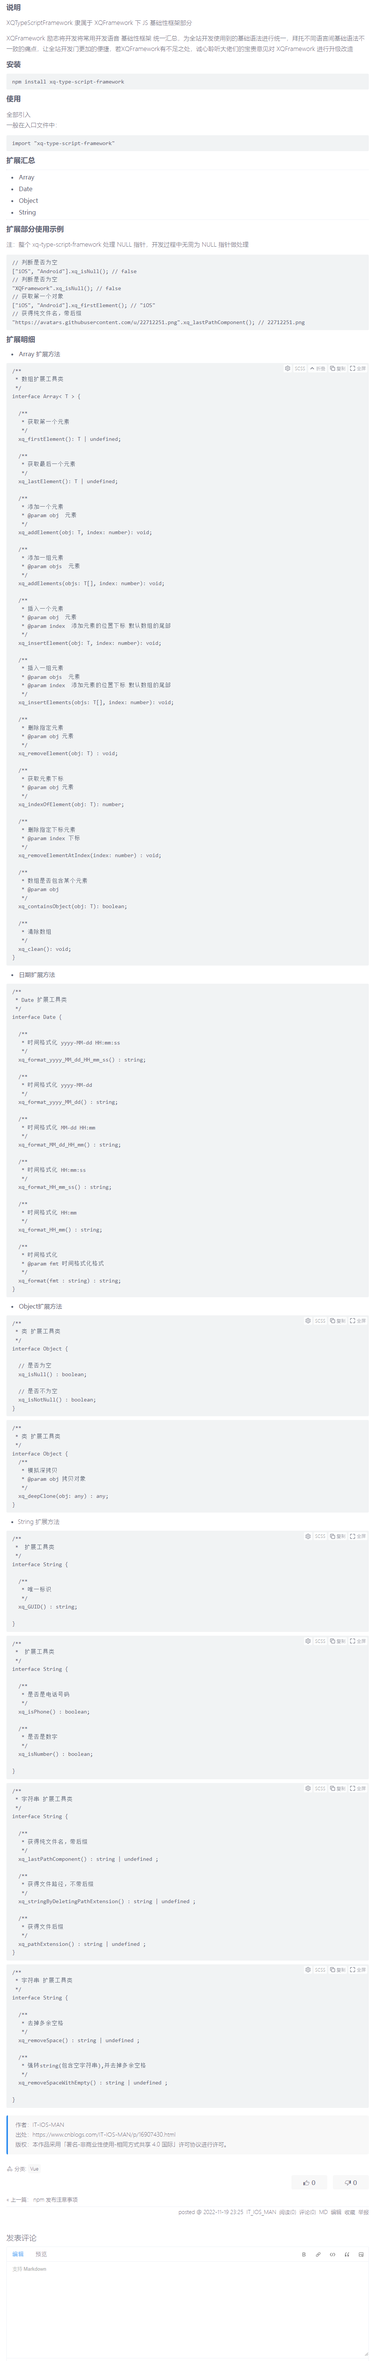
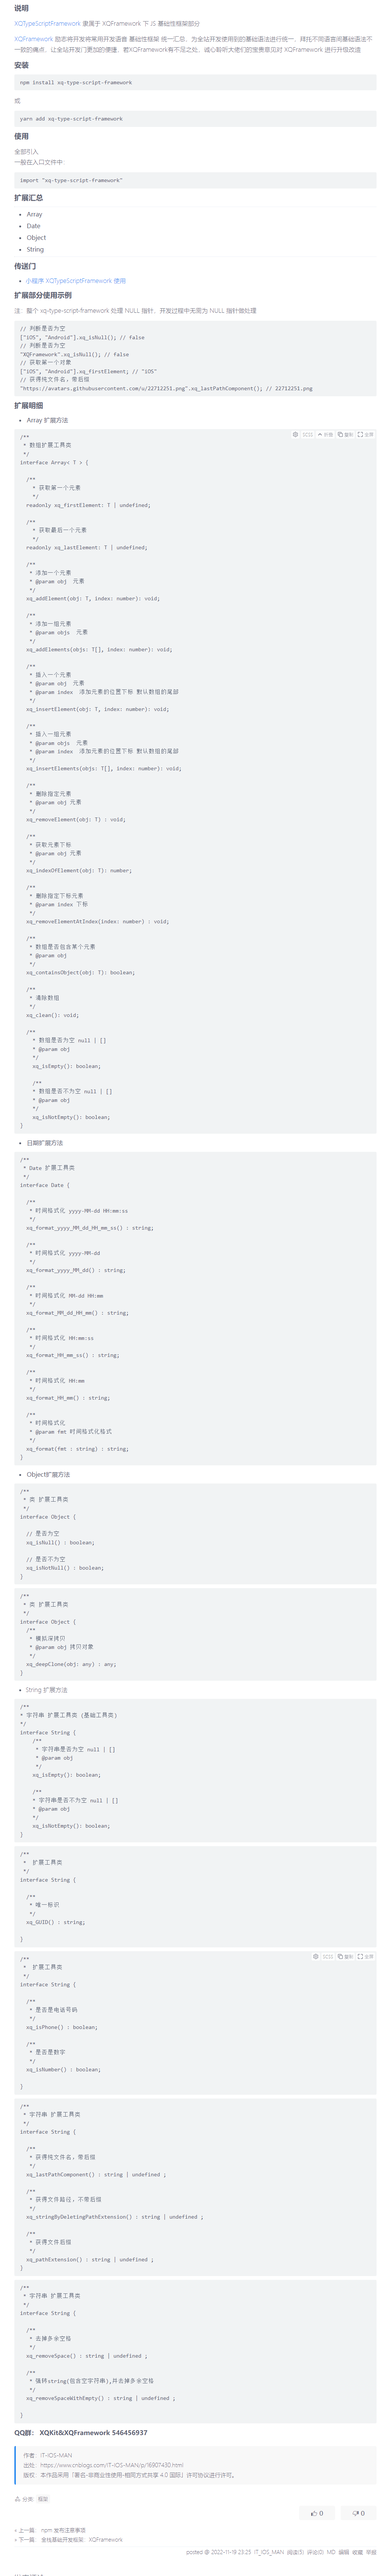
1.2.2

diff --git a/src/utils/xq-type-script-framework/array/constructor.ts b/src/utils/xq-type-script-framework/array/constructor.ts
@@ -8,65 +8,71 @@
 
 /// <reference path="./ext.d.ts" />  
 
-Array.prototype.xq_firstElement = function<T extends Object>() : T | undefined {
-  if (this.xq_isNull()) return undefined;
-  return this[0];
-}
+Object.defineProperty(Array.prototype, "xq_firstElement", {
 
-Array.prototype.xq_lastElement = function<T extends Object> () : T | undefined {
-  if (this.xq_isNull()) return undefined;
-  return this[this.length - 1];
-}
+  get() {
+    if (this.xq_isNull()) return undefined;
+    return this[0];
+  },
+});
 
-Array.prototype.xq_addElement = function<T extends Object> (obj: T ) : void {
+Object.defineProperty(Array.prototype, "xq_lastElement", {
+
+  get() {
+    if (this.xq_isNull()) return undefined;
+    return this[this.length - 1];
+  },
+});
+
+Array.prototype.xq_addElement = function <T extends Object>(obj: T): void {
   if (this.xq_isNull() || obj.xq_isNull()) return;
   this.push(obj);
 }
 
-Array.prototype.xq_addElements = function<T extends Object> (objs: T[]) : void {
+Array.prototype.xq_addElements = function <T extends Object>(objs: T[]): void {
   if (this.xq_isNull() || objs.xq_isNull()) return;
   this.push(objs);
 }
 
-Array.prototype.xq_insertElement = function<T extends Object> (obj: T, index : number) : void{
+Array.prototype.xq_insertElement = function <T extends Object>(obj: T, index: number): void {
   if (this.xq_isNull() || obj.xq_isNull()) return;
   this.splice(index, 0, obj);
 }
 
-Array.prototype.xq_insertElements = function<T extends Object> (objs: T[], index : number) : void {
+Array.prototype.xq_insertElements = function <T extends Object>(objs: T[], index: number): void {
   if (this.xq_isNull() || objs.xq_isNull()) return;
   this.splice(index, 0, objs);
 }
 
-Array.prototype.xq_removeElement = function<T extends Object> (obj : T) : void {
+Array.prototype.xq_removeElement = function <T extends Object>(obj: T): void {
   if (this.xq_isNull() || obj.xq_isNull()) return;
   this.splice(this.xq_indexOfElement(obj), 1);
 }
 
-Array.prototype.xq_removeElementAtIndex = function (index : number) : void {
+Array.prototype.xq_removeElementAtIndex = function (index: number): void {
   if (this.xq_isNull()) return;
   this.splice(index, 1);
 }
 
-Array.prototype.xq_indexOfElement = function<T extends Object> (obj: T) : number {
+Array.prototype.xq_indexOfElement = function <T extends Object>(obj: T): number {
   if (this.xq_isNull() || obj.xq_isNull()) return -1;
   return this.indexOf(obj);
 }
 
-Array.prototype.xq_containsObject = function<T extends Object> (obj: T): boolean {
+Array.prototype.xq_containsObject = function <T extends Object>(obj: T): boolean {
   if (this.xq_isNull() || obj.xq_isNull()) return false;
   return this.indexOf(obj) >= 0;
 }
 
-Array.prototype.xq_clean = function() : void {
+Array.prototype.xq_clean = function (): void {
   if (this.xq_isNull()) return;
   this.length = 0;
 }
 
-Array.prototype.xq_isEmpty = function(): boolean {
-  return this.xq_isNull() && this.length == 0;
+Array.prototype.xq_isEmpty = function (): boolean {
+  return this.xq_isNull() || this.length == 0;
 }
 
- Array.prototype.xq_isNotEmpty = function(): boolean {
+Array.prototype.xq_isNotEmpty = function (): boolean {
   return !this.xq_isEmpty();
- }
+}

diff --git a/src/utils/xq-type-script-framework/object/constructor.ts b/src/utils/xq-type-script-framework/object/constructor.ts
@@ -8,23 +8,34 @@
 
 /// <reference path="./ext.d.ts" /> 
 
-Object.prototype.xq_isNull = function () : boolean {
-  if (typeof this == 'boolean') {
-    return false;
-  }
-  if (typeof this == 'number') {
-    return false;
-  }
-  if (this instanceof Object) {
-    if (JSON.stringify(this) === '{}') return true;
-  } else {
-    if (this == 'null' || this == null || this == 'undefined' || this == undefined || this == '') return true;
-    return false;
-  }
-  return false;
+Object.defineProperty(Object.prototype, "xq_isNull", {
 
-}
+  get() {
+    return () => {
+      if (typeof this == 'boolean') {
+        return false;
+      }
+      if (typeof this == 'number') {
+        return false;
+      }
+      if (this instanceof Object) {
+        if (JSON.stringify(this) === '{}') return true;
+      } else {
+        if (this == 'null' || this == null || this == 'undefined' || this == undefined) return true;
+        return false;
+      }
+      return false;
+    }
+  }
 
-Object.prototype.xq_isNotNull = function() : boolean {
-  return !this.xq_isNull();
-}
+})
+
+Object.defineProperty(Object.prototype, "xq_isNotNull", {
+
+  get() {
+    return () => {
+      return !this.xq_isNull();
+    }
+  }
+
+})

diff --git a/src/utils/xq-type-script-framework/string/path.ts b/src/utils/xq-type-script-framework/string/path.ts
@@ -12,9 +12,9 @@ String.prototype.xq_lastPathComponent = function () : string | undefined {
   if (this.xq_isNull()) return undefined;
 
   if (this.indexOf("/") > 0) {
-    return this.split('/').xq_lastElement();
+    return this.split('/').xq_lastElement;
   } else if (this.indexOf("\\") > 0) {
-    return this.split('\\').xq_lastElement();
+    return this.split('\\').xq_lastElement;
   } else {
     return this.toString();
   }
@@ -36,7 +36,7 @@ String.prototype.xq_pathExtension = function () : string | undefined {
   if (this.xq_isNull()) return undefined;
 
   if (this.indexOf(".") > 0) {
-    return this.split('.').xq_lastElement();
+    return this.split('.').xq_lastElement;
   } else {
     return this.toString();
   }

diff --git a/src/utils/xq-type-script-framework/string/ext.d.ts b/src/utils/xq-type-script-framework/string/ext.d.ts
@@ -8,6 +8,24 @@
 
 /// <reference path="../object/ext.d.ts" /> 
 
+
+/**
+* 字符串 扩展工具类 (基础工具类)
+*/
+interface String {
+    /**
+     * 字符串是否为空 null | []
+     * @param obj 
+     */
+    xq_isEmpty(): boolean;
+
+    /**
+    * 字符串是否不为空 null | []
+    * @param obj 
+    */
+    xq_isNotEmpty(): boolean;
+}
+
 /**
  *  字符串 扩展工具类 (唯一标识工具类)
  */
@@ -74,4 +92,7 @@ interface String {
     xq_removeSpaceWithEmpty(): string | undefined;
 
 }
+
+
+
 

diff --git a/src/utils/xq-type-script-framework/string/constructor.ts b/src/utils/xq-type-script-framework/string/constructor.ts
@@ -8,12 +8,10 @@
 
 /// <reference path="./ext.d.ts" /> 
 
-Object.defineProperty(Object.prototype, "xq_deepClone", {
-  get() {
-    return () => {
-      const _obj = JSON.stringify(this);
-      const objClone = JSON.parse(_obj);
-      return objClone;
-    }
-  }
-})
+String.prototype.xq_isEmpty = function (): boolean {
+    return this.xq_isNull() || this.length == 0;
+}
+
+String.prototype.xq_isNotEmpty = function (): boolean {
+    return !this.xq_isEmpty();
+}

diff --git a/src/utils/xq-type-script-framework/array/ext.d.ts b/src/utils/xq-type-script-framework/array/ext.d.ts
@@ -16,12 +16,12 @@ interface Array<T> extends Object {
     /**
      * 获取第一个元素
      */
-    xq_firstElement(): T | undefined;
+    readonly xq_firstElement: T | undefined;
 
     /**
      * 获取最后一个元素
      */
-    xq_lastElement(): T | undefined;
+    readonly xq_lastElement: T | undefined;
 
     /**
      * 添加一个元素

diff --git a/src/App.vue b/src/App.vue
@@ -14,7 +14,7 @@ export default defineComponent({
   },
 
   created() {
-    console.log(["qqq"].xq_isNotNull());
+    console.log(["iOS", "Android"].xq_isNull());
   },
 });
 </script>

diff --git a/src/utils/xq-type-script-framework/object/ext.d.ts b/src/utils/xq-type-script-framework/object/ext.d.ts
@@ -31,5 +31,5 @@ interface Object {
      * 模拟深拷贝
      * @param obj 拷贝对象
      */
-    xq_deepClone(obj: any): any;
+    xq_deepClone(): any;
 }

diff --git a/src/utils/xq-type-script-framework/string/index.ts b/src/utils/xq-type-script-framework/string/index.ts
@@ -6,6 +6,7 @@
 //  Copyright © 2020 IT_IOS_MAN. All rights reserved.
 //
 
+import "./constructor"
 import "./guid"
 import "./path"
 import "./judge"

diff --git a/src/utils/xq-type-script-framework/README.md b/src/utils/xq-type-script-framework/README.md
@@ -31,7 +31,7 @@ import "xq-type-script-framework"
 // 判断是否为空
 "XQFramework".xq_isNull(); // false
 // 获取第一个对象
-["iOS", "Android"].xq_firstElement(); // "iOS"
+["iOS", "Android"].xq_firstElement; // "iOS"
 // 获得纯文件名，带后缀
 "https://avatars.githubusercontent.com/u/22712251.png".xq_lastPathComponent(); // 22712251.png
 ```
@@ -45,14 +45,14 @@ import "xq-type-script-framework"
 interface Array< T > {
 
   /**
-   * 获取第一个元素
-   */
-  xq_firstElement(): T | undefined;
+    * 获取第一个元素
+    */
+  readonly xq_firstElement: T | undefined;
 
   /**
-   * 获取最后一个元素
-   */
-  xq_lastElement(): T | undefined;
+    * 获取最后一个元素
+    */
+  readonly xq_lastElement: T | undefined;
 
   /**
    * 添加一个元素
@@ -108,6 +108,18 @@ interface Array< T > {
    * 清除数组
    */
   xq_clean(): void;
+
+  /**
+    * 数组是否为空 null | []
+    * @param obj 
+    */
+    xq_isEmpty(): boolean;
+
+    /**
+    * 数组是否不为空 null | []
+    * @param obj 
+    */
+    xq_isNotEmpty(): boolean;
 }
 ```
 
@@ -179,6 +191,26 @@ interface Object {
 }
 ```
 - String 扩展方法
+
+```
+/**
+* 字符串 扩展工具类 (基础工具类)
+*/
+interface String {
+    /**
+     * 字符串是否为空 null | []
+     * @param obj 
+     */
+    xq_isEmpty(): boolean;
+
+    /**
+    * 字符串是否不为空 null | []
+    * @param obj 
+    */
+    xq_isNotEmpty(): boolean;
+}
+```
+
 ```
 /**
  *  扩展工具类
